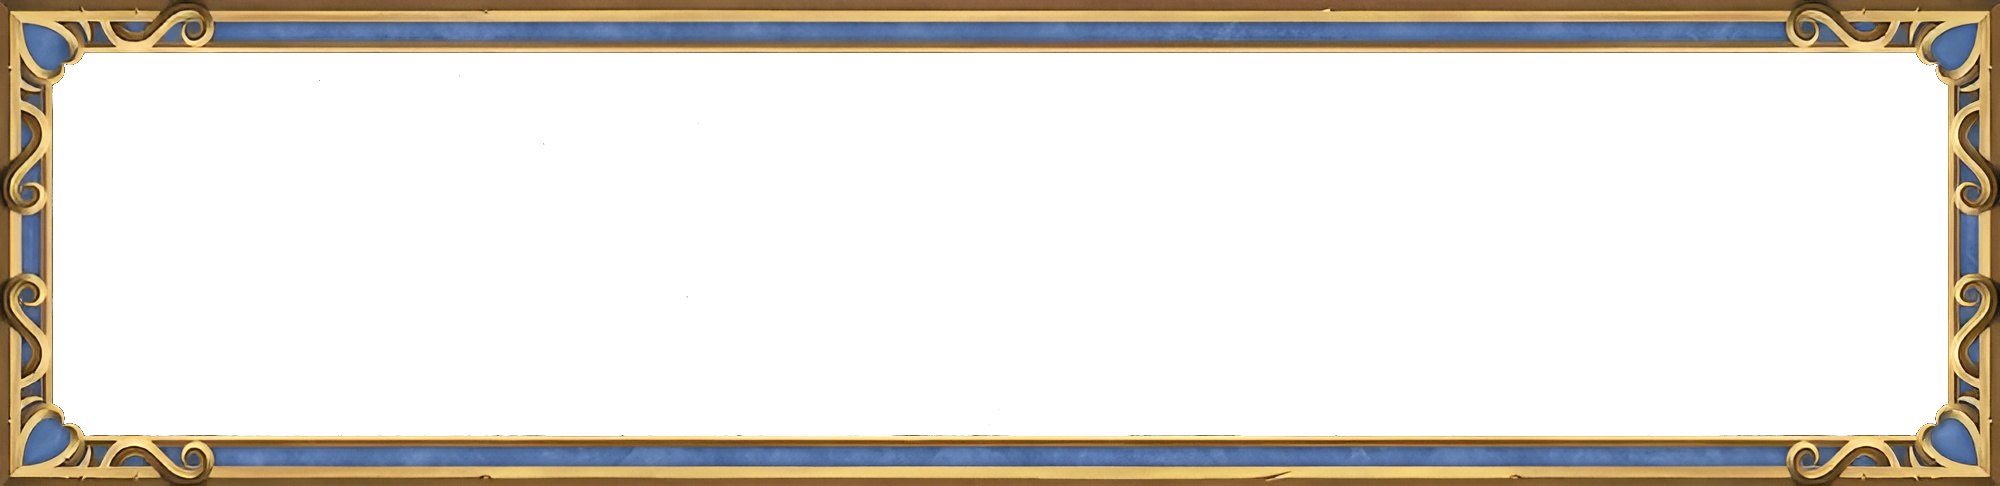
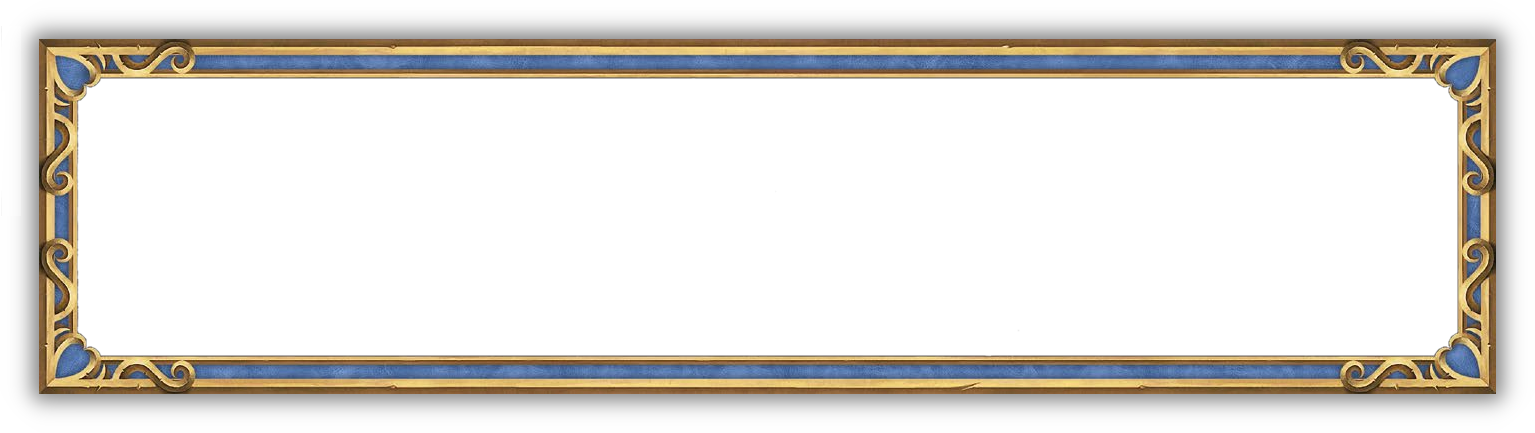
Add drop shadow to the section header image (#993)

diff --git a/metadata.tex b/metadata.tex
@@ -417,15 +417,15 @@
 }
 \newcommand{\addsection}[3][1]{
   \def\oneliner{\equal{#1}{1}}
-  \vspace*{-5em}
-  \hspace*{-1em}
+  \vspace*{-5.81em}
+  \hspace*{-1.35em}
   \makebox[0pt][l]{
   \raisebox{-\totalheight}[0pt][7pt]{
     \begin{tikzpicture}
       \iftoggle{noartbackground}{
-        \draw (0, 0) node[inner sep=0] {\includegraphics[width=\linewidth, height=0.2\linewidth]{\layout/section_heading_monochrome.png}};
+        \draw (0, 0) node[inner sep=0] {\makebox[1.015\textwidth][c]{\includegraphics[width=1.055\linewidth, height=0.24\linewidth]{\layout/section_heading_monochrome.png}}};
       }{
-        \draw (0, 0) node[inner sep=0] {\includegraphics[width=\linewidth, height=0.2\linewidth]{\layout/section_heading.jpg}};
+        \draw (0, 0) node[inner sep=0] {\makebox[1.015\textwidth][c]{\includegraphics[width=1.055\linewidth, height=0.24\linewidth]{\layout/section_heading.png}}};
       }
       \draw (-6.2, 0) node {\includegraphics[width=0.125\textwidth]{#3}};
     \end{tikzpicture}
@@ -435,12 +435,16 @@
   \begin{fullwidth}[leftmargin=0.16\textwidth, outermargin=0.16\textwidth, innermargin=0.16\textwidth]
     \begin{center}
       \vspace*{\lang_header_adjustment}
-      \ifthenelse{\oneliner}{}{\vspace{-13pt}}
+      \ifthenelse{\oneliner}{\vspace{0.81em}}{\vspace{-0.27em}}
       \sectionheadertext{#2}
     \end{center}
   \end{fullwidth}
-  \vspace{1.75em}
-  \ifthenelse{\oneliner}{}{\vspace{-13pt}}
+  \ifthenelse{\oneliner}{
+    \vspace{1.75em}
+    \vspace{\lang_header_adjustment}
+  }{
+    \vspace{0.66em}
+  }
 }
 %End of create section heading.
 
